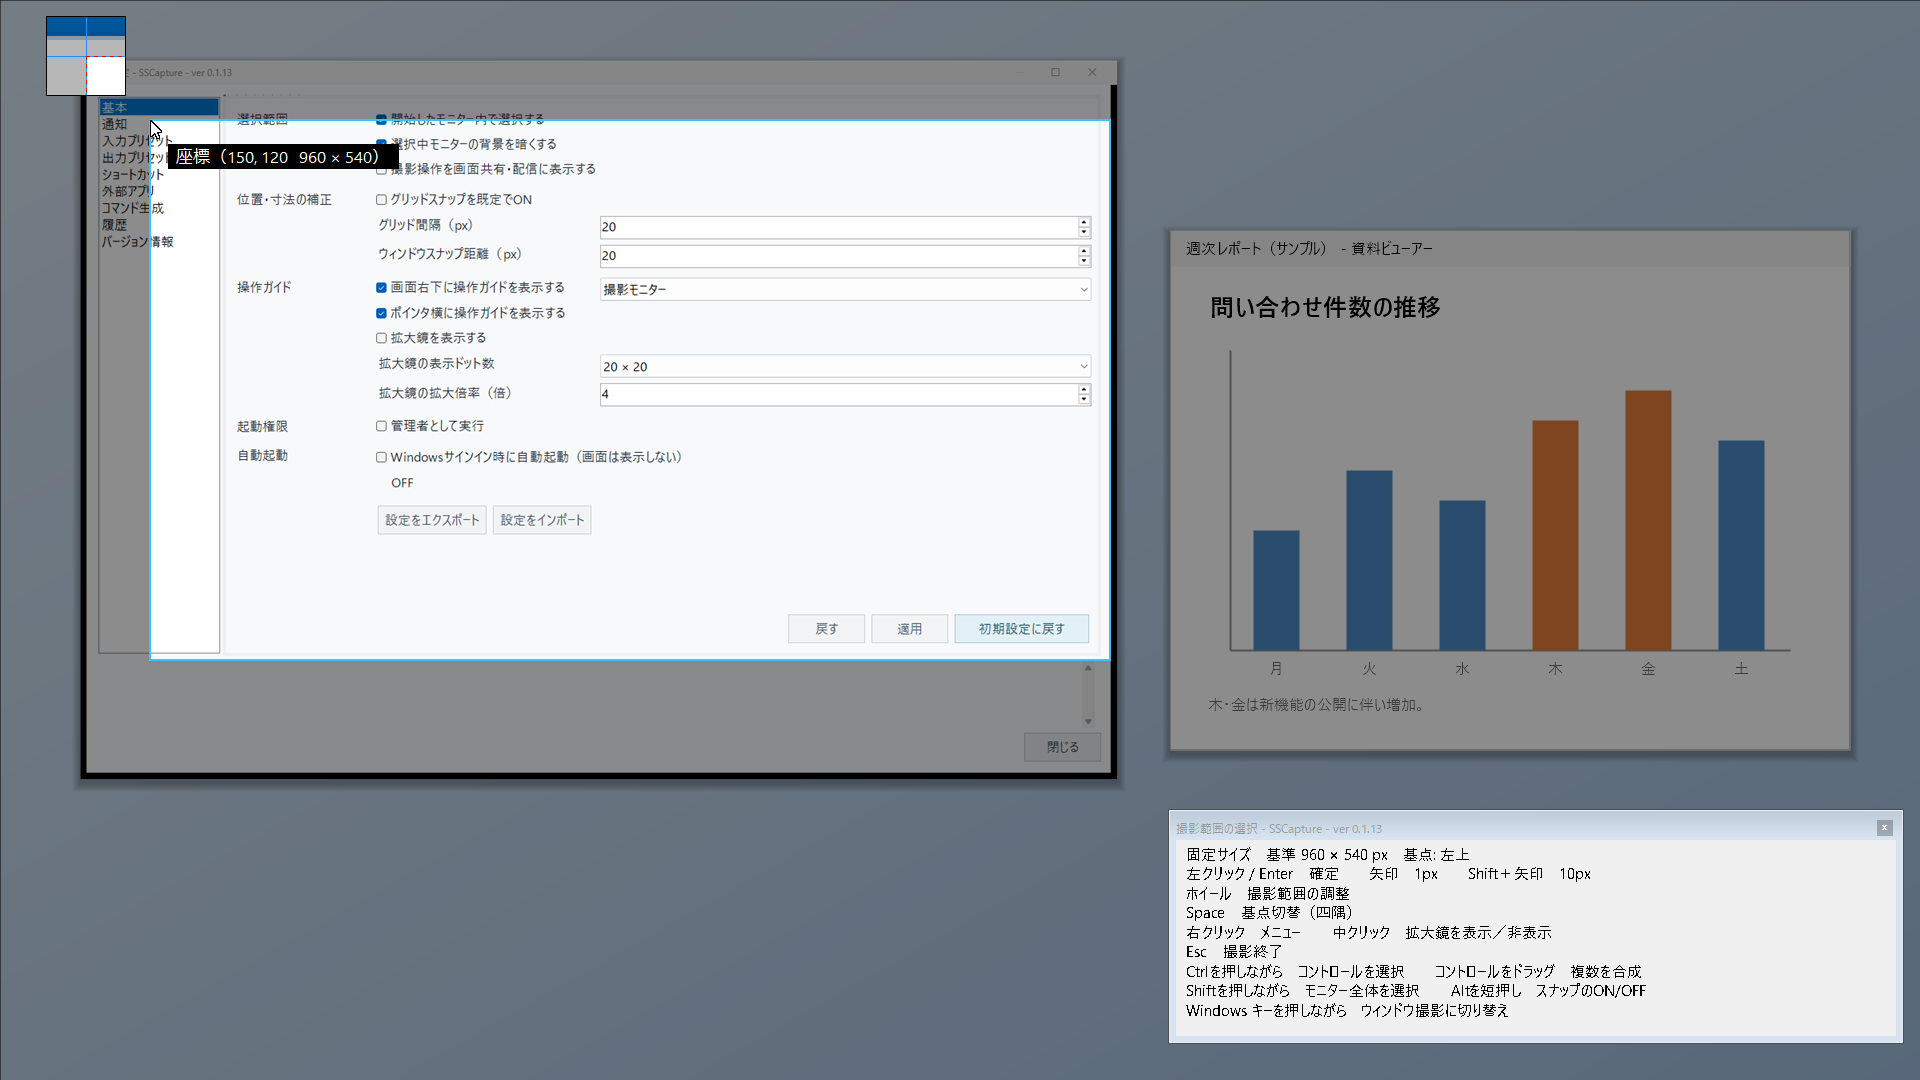
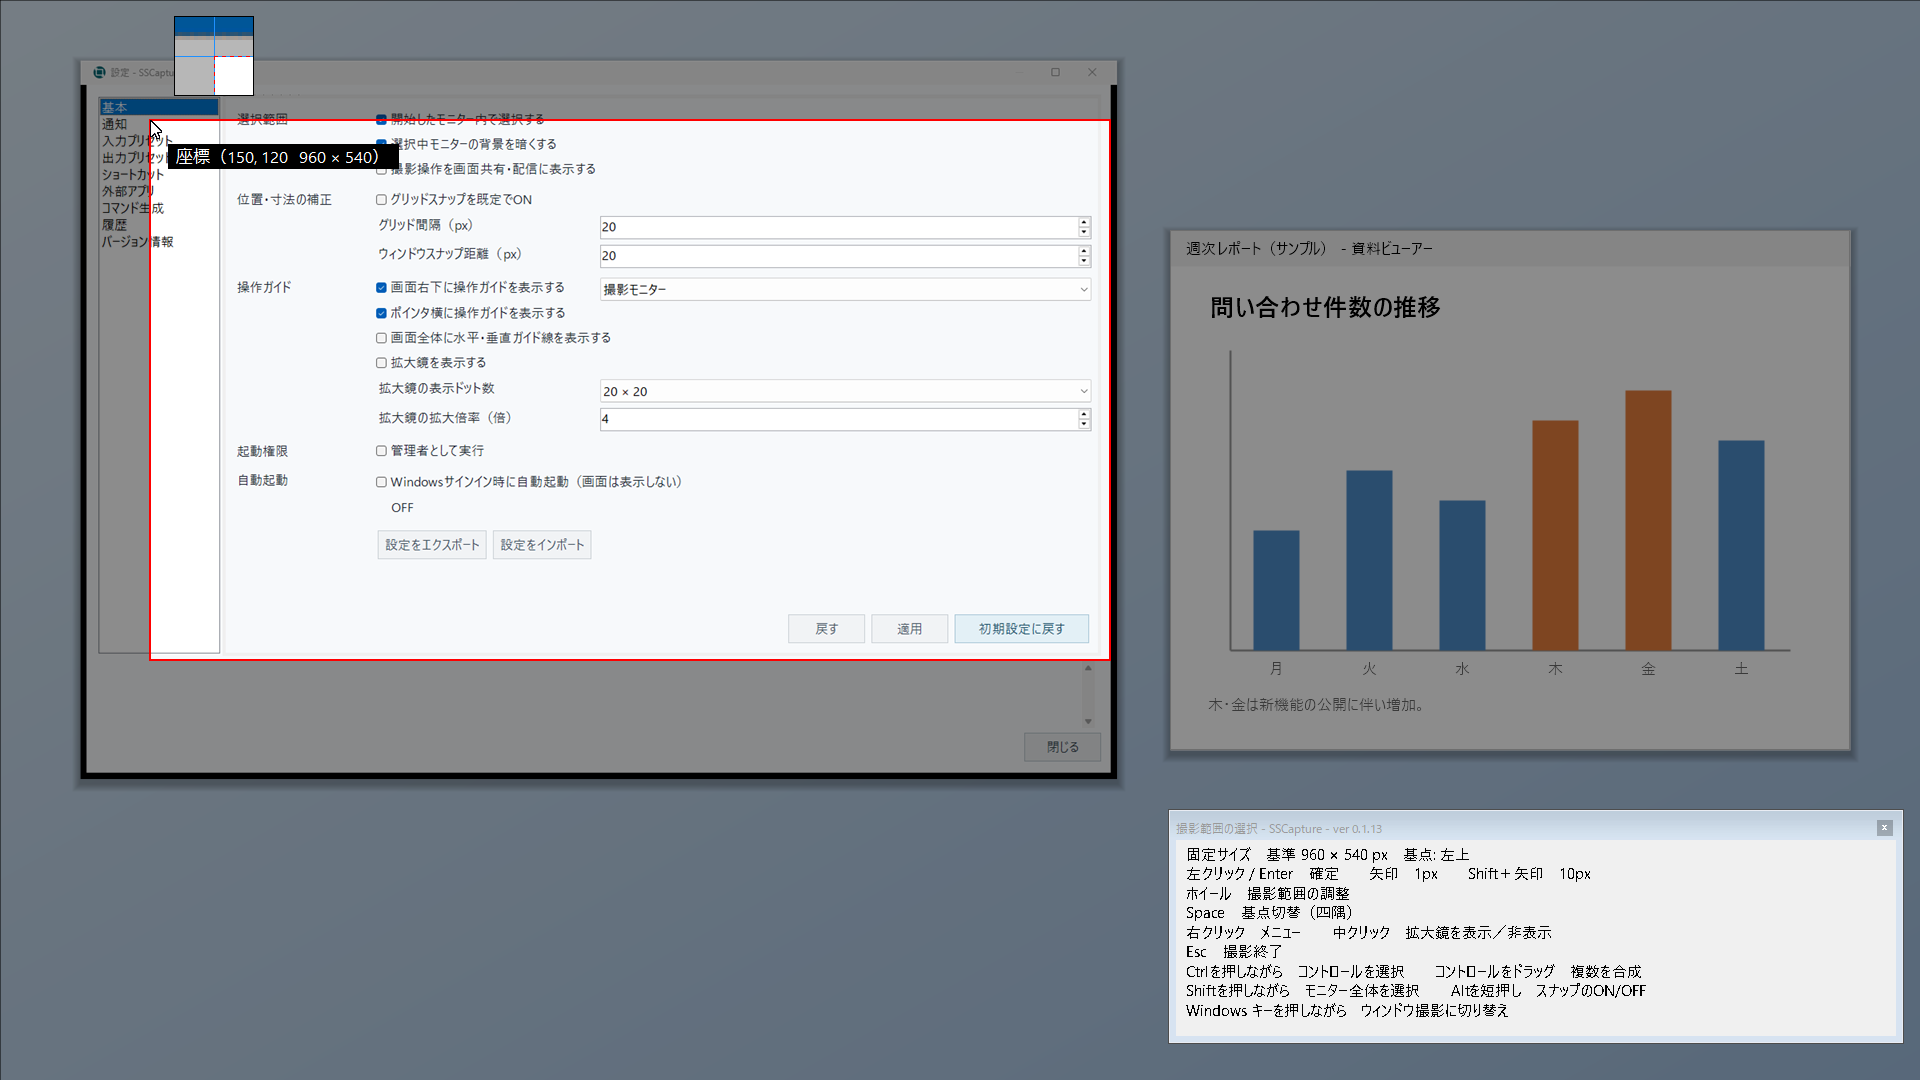
実際に取得する撮影範囲の枠線を赤に統一する

Changed region(s): [[0.1875, 0.3056, 0.5938, 0.5194], [0.0, 0.0, 0.1562, 0.0917], [0.125, 0.3667, 0.1562, 0.4583]]

diff --git a/tests/SSCapture.Tests/CaptureOpticsTests.cs b/tests/SSCapture.Tests/CaptureOpticsTests.cs
@@ -432,11 +432,11 @@ internal static partial class Program
 
     private static void SelectionFrameTests()
     {
-        Run("基準の実線と撮影の破線、暗転と拡大鏡は配信用描画でも実際の枠と一致する", () =>
+        Run("青い基準枠と赤い撮影枠、暗転と拡大鏡は配信用描画でも実際の枠と一致する", () =>
         {
             Rectangle desktop = new(-200, -110, 400, 300), basis = new(-120, -60, 140, 100);
             Point point = basis.Location + new Size(38, 8);
-            Color border = Color.FromArgb(55, 195, 255);
+            Color reference = Color.FromArgb(55, 195, 255);
             foreach (bool dim in new[] { false, true })
             {
                 var snapshot = new DesktopSnapshot(new Bitmap(desktop.Width, desktop.Height), desktop, [desktop]);
@@ -458,16 +458,17 @@ internal static partial class Program
                     foreach (bool shared in new[] { false, true })
                     {
                         using Bitmap image = DrawOpticsOverlay(overlay, visual, shared);
-                        int solid = Enumerable.Range(92, 80).Count(x => image.GetPixel(x, 50).ToArgb() == border.ToArgb());
+                        int solid = Enumerable.Range(92, 80).Count(x => image.GetPixel(x, 50).ToArgb() == reference.ToArgb());
                         Equal(80, solid);
-                        int dashed = Enumerable.Range(92, 80).Count(x => image.GetPixel(x, 56).ToArgb() == border.ToArgb());
-                        Check(dashed is > 0 and < 80, "撮影枠が破線でない");
+                        int dashed = Enumerable.Range(92, 80).Count(x => image.GetPixel(x, 56).ToArgb() == Color.Red.ToArgb());
+                        Check(dashed is > 0 and < 80, "撮影枠が赤い破線でない");
                         Equal(Color.White.ToArgb(), image.GetPixel(90, 80).ToArgb());
                         Equal(dim ? 140 : 255, (int)image.GetPixel(82, 80).R);
                     }
                     session.MouseWheel(point, 720);
                     using Bitmap reset = DrawOpticsOverlay(overlay, ReadOpticsVisual(overlay), shared: false);
-                    Check(Enumerable.Range(92, 80).All(x => reset.GetPixel(x, 50).ToArgb() == border.ToArgb()), "一致した枠が実線に戻らない");
+                    Check(Enumerable.Range(92, 80).All(x => reset.GetPixel(x, 50).ToArgb() == Color.Red.ToArgb()),
+                        "一致した枠が赤い実線に戻らない");
                     Equal(Color.White.ToArgb(), reset.GetPixel(92, 56).ToArgb());
                     session.MouseWheel(point, -720);
                     session.ChangeMagnifierVisibility(true);
@@ -703,7 +704,15 @@ internal static partial class Program
                     session.MoveTo(end);
                     Check(a.InvalidateChanges() && b.InvalidateChanges(), "両方のモニターを更新しない");
                     Equal<Point?>(null, VisualProperty<Point?>(ReadOpticsVisual(a), "Crosshair"));
-                    Equal<Point?>(new(24, 50), VisualProperty<Point?>(ReadOpticsVisual(b), "Crosshair"));
+                    var endVisual = ReadOpticsVisual(b);
+                    Equal<Point?>(new(24, 50), VisualProperty<Point?>(endVisual, "Crosshair"));
+                    foreach (bool shared in new[] { false, true })
+                    {
+                        using var image = DrawOpticsOverlay(b, endVisual, shared);
+                        Equal(Color.Red.ToArgb(), image.GetPixel(24, 45).ToArgb());
+                        Equal(Color.Red.ToArgb(), image.GetPixel(12, 50).ToArgb());
+                        Equal(Color.White.ToArgb(), image.GetPixel(60, 50).ToArgb());
+                    }
                     if (method == CaptureSelectionMethod.TwoClicks) session.MouseDown(b, MouseButtons.Left, end);
                     session.MouseUp(MouseButtons.Left, end);
                     using var outcome = session.Completion.GetAwaiter().GetResult();

diff --git a/src/SSCapture/Capture/CaptureOverlay.cs b/src/SSCapture/Capture/CaptureOverlay.cs
@@ -228,9 +228,8 @@ internal sealed class CaptureOverlay : Form
             source.Offset(MonitorBounds.X - controlFrame.Bounds.X, MonitorBounds.Y - controlFrame.Bounds.Y);
             graphics.DrawImage(controlFrame.Image, destination, source, GraphicsUnit.Pixel);
         }
-        DrawSelection(graphics, selection, Local(visual.Basis), dirty, shared);
+        DrawSelection(graphics, selection, Local(visual.Basis), dirty, shared, visual.Crosshair);
         DrawTargetTrail(graphics, dirty);
-        if (visual.Crosshair is Point crosshair) DrawCrosshair(graphics, ClientRectangle, crosshair);
         if (visual.DimensionsText is string dimensions)
             DrawPointerLabel(graphics, dimensions, visual.Dimensions, shared);
         if (visual.HintText is string hint)
@@ -419,23 +418,39 @@ internal sealed class CaptureOverlay : Form
         return screen;
     }
 
-    private void DrawSelection(Graphics graphics, Rectangle selection, Rectangle basis, Rectangle dirty, bool shared)
+    private void DrawSelection(Graphics graphics, Rectangle selection, Rectangle basis, Rectangle dirty, bool shared, Point? crosshair)
     {
         bool adjusted = HasAdjustedFrame(selection, basis);
-        using Pen border = new(session.FixedSelectionValid ? Color.FromArgb(55, 195, 255) : Color.OrangeRed, adjusted ? 1 : 2);
+        using Pen border = new(session.FixedSelectionValid ? Color.Red : Color.Orange, adjusted ? 1 : 2);
         if (!session.SelectingControl && session.Mode == CaptureMode.Freeform && session.Dragging
             && session.Points.Count >= 2 && (selection.IsEmpty || session.MagnifierPolygon is not null))
-            DrawFreeformSelection(graphics, border, dirty, shared);
-        else if (selection.Width > 0 && selection.Height > 0)
         {
-            if (!session.HighlightWindow && !session.SelectingControl && !shared) DrawSnapshot(graphics, Rectangle.Intersect(selection, dirty));
-            if (adjusted)
-            {
-                graphics.DrawRectangle(border, basis);
-                border.DashStyle = DashStyle.Dash;
-            }
-            graphics.DrawRectangle(border, selection);
+            DrawFreeformSelection(graphics, border, dirty, shared);
+            return;
         }
+        bool hasSelection = selection.Width > 0 && selection.Height > 0;
+        if (hasSelection && !session.HighlightWindow && !session.SelectingControl && !shared)
+            DrawSnapshot(graphics, Rectangle.Intersect(selection, dirty));
+
+        if (crosshair is Point center) DrawCrosshair(graphics, ClientRectangle, center);
+        if (!hasSelection) return;
+
+        if (adjusted)
+        {
+            using var reference = new Pen(Color.FromArgb(55, 195, 255));
+            DrawReferenceFrame(graphics, reference, basis, selection);
+            border.DashStyle = DashStyle.Dash;
+        }
+        graphics.DrawRectangle(border, selection);
+    }
+
+    private static void DrawReferenceFrame(Graphics graphics, Pen pen, Rectangle basis, Rectangle selection)
+    {
+        // A coincident side belongs to the capture frame, including the gaps of its dashed line.
+        if (basis.Top != selection.Top) graphics.DrawLine(pen, basis.Left, basis.Top, basis.Right, basis.Top);
+        if (basis.Bottom != selection.Bottom) graphics.DrawLine(pen, basis.Left, basis.Bottom, basis.Right, basis.Bottom);
+        if (basis.Left != selection.Left) graphics.DrawLine(pen, basis.Left, basis.Top, basis.Left, basis.Bottom);
+        if (basis.Right != selection.Right) graphics.DrawLine(pen, basis.Right, basis.Top, basis.Right, basis.Bottom);
     }
 
     private static bool HasAdjustedFrame(Rectangle selection, Rectangle basis) =>

diff --git a/docs/releases/v0.1.13.md b/docs/releases/v0.1.13.md
@@ -9,6 +9,7 @@
 - 画像用・動画用の既定の編集アプリを、外部アプリの一覧で★を付けて指定できます。通知設定では、同名の登録を用途で見分けられます。[外部アプリの設定](../settings.md#外部アプリ)
 - 外部アプリの既定変更はボタンを押すと保存します。登録を削除した直後も、移動先の行を複製・削除できます。[外部アプリの設定](../settings.md#外部アプリ)
 - 矩形の範囲選択に、ポインタを通る全画面ガイド線を追加しました。[画素単位の選択](../usage.md#画素単位で範囲やコントロールを選ぶ)
+- 選択画面と拡大鏡で、実際に撮影する範囲の境界を赤線に揃えました。[撮影中の画面](../usage.md#撮影中の画面)
 - 履歴の再コピーや編集の後も「前回の撮影結果」は直前に撮った画像を表示します。定期撮影は、標準の「ファイル保存」を復元した後も、その保存先と命名設定を使います。[撮影履歴](../usage.md#同じ範囲固定サイズ撮影履歴)・[タイマー撮影](../usage.md#タイマー撮影)
 - 「直前の設定で再撮影」の初期キーをWin＋Ctrl＋Shift＋Sに変更しました。保存済みの割り当ては引き継ぎます。
 - 出力プリセットと「静止画のコピー内容」で、OCRの選択肢を「OCR（文字列）」「OCR（表）」に統一しました。

diff --git a/dev/history/v0.1.13/v0.1.13-imp.md b/dev/history/v0.1.13/v0.1.13-imp.md
@@ -141,3 +141,11 @@
 全体テスト902件、同梱内容の検査60件、保守補助のテスト37件が成功し、失敗は各0件。設定画面と撮影画面の案内画像を合成背景と隔離設定から更新した。混在DPIの実モニターと画面共有でのガイド線は未確認。ログは `logs/editor-and-guides/` に保存した。
 
 本PCの既存の導入先を更新し、管理IPCで新しいv0.1.13の常駐を確認した。導入済みDLLは今回のビルドと一致し、保存済み設定と前回撮影範囲は更新前後のSHA-256が一致した。
+
+### 撮影範囲の枠線
+
+選択画面の取得境界を拡大鏡と同じ赤に揃えた。調整時は青の実線で元の枠、赤い破線で取得範囲を表示する。撮影できない固定枠はオレンジ色で示す。矩形の境界と全画面ガイド線が重なるときは、赤線を手前に描く。
+
+ドラッグと2点クリックで、通常・配信用の描画の両方について、撮影枠とガイド線の重なりを画素で照合した。選択画面の案内画像も更新した。
+
+全体テスト902件、同梱内容の検査60件、保守補助のテスト37件が成功した。このPCのv0.1.13を更新し、新しい常駐プロセスと導入済みDLLを照合した。設定と前回の撮影範囲は保存ファイルのSHA-256が一致した。ログは `logs/red-capture-boundary/` に保存した。

diff --git a/README.md b/README.md
@@ -12,7 +12,7 @@ Windows 11用の汎用スクリーンショットツールです。Windows標準
 
 [撮影中の画面例と操作ガイド](docs/usage.md#撮影中の画面)・[操作風景動画](docs/operation-videos.md)
 
-撮影中は、拡大鏡の青十字でポインタ位置を、赤線で実際の撮影範囲を確認できます。矩形の全画面ガイド線をONにすると、ポインタからモニターの端まで水平線と垂直線が伸びます。画面右下の操作ガイドは、ポインタが近づくと一時的に隠れます。
+選択画面と拡大鏡では、赤線が実際に撮影する範囲です。矩形の全画面ガイド線をONにすると、ポインタからモニターの端まで白黒の水平線と垂直線が伸びます。画面右下の操作ガイドは、ポインタが近づくと一時的に隠れます。
 
 ## 想定活用フロー
 

diff --git a/dev/history/v0.1.13/v0.1.13-req.md b/dev/history/v0.1.13/v0.1.13-req.md
@@ -55,6 +55,10 @@
 
 通常の矩形選択で、1点目を決める前から2点目を確定するまで、操作中のポインタを通る水平線と垂直線を画面端まで表示できるようにする。ドラッグ選択と2点クリックの両方を対象とする。「基本」から拡大鏡と独立して表示を切り替えられ、撮影結果には線を含めない。[表示範囲と検証方法](v0.1.13-imp.md#15-矩形選択の全画面ガイド線)
 
+### 撮影範囲の枠線
+
+実際に撮影する範囲の境界は、選択画面と拡大鏡で赤線に統一する。
+
 ## 未実装
 
 ### 管理者アプリ上の撮影キーをサインイン直後から使う
